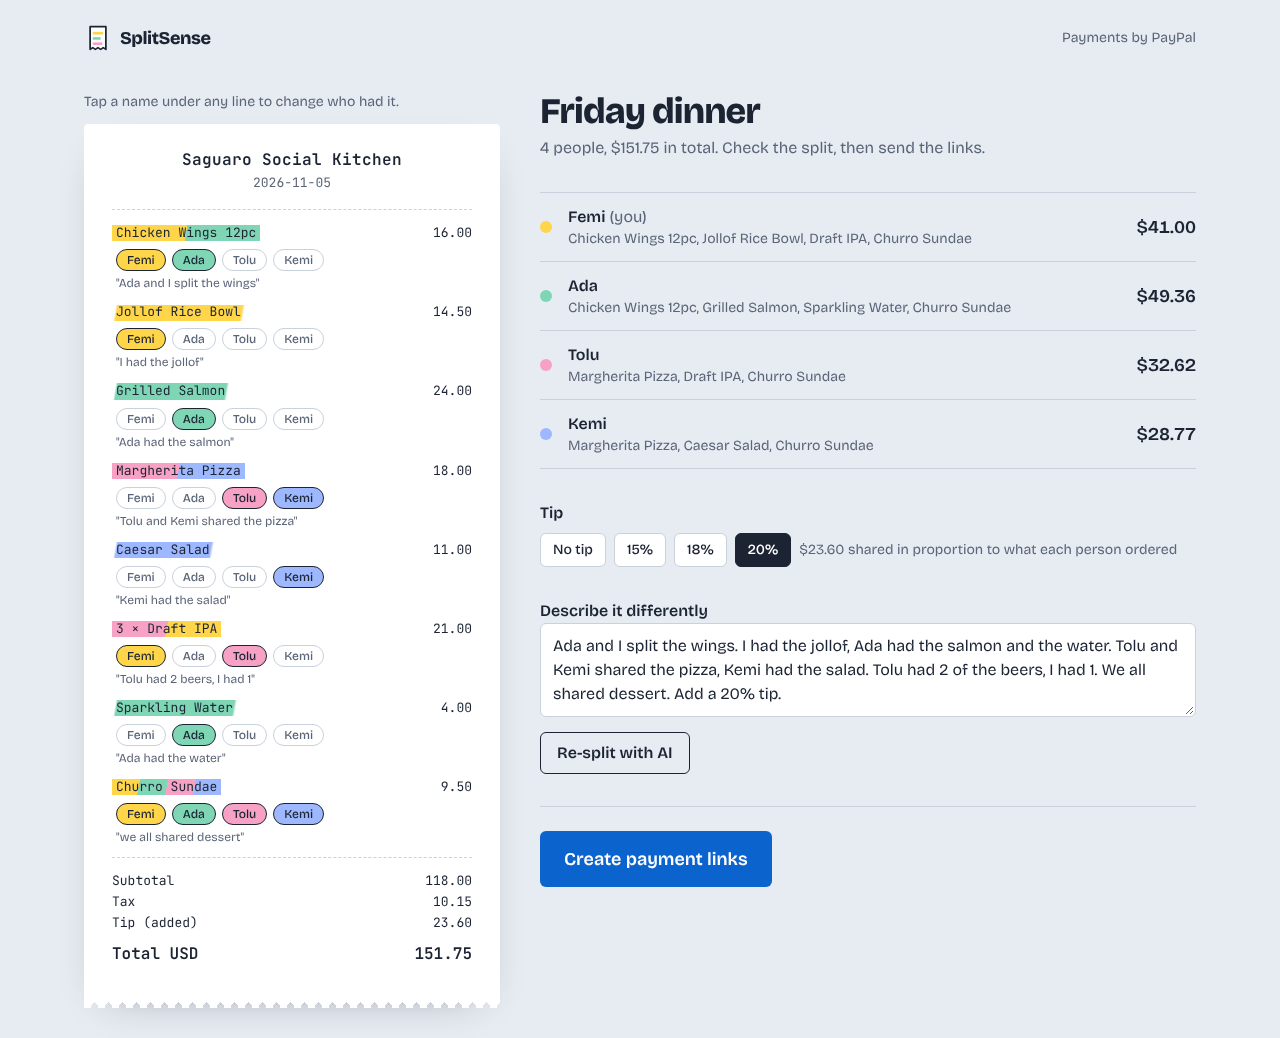
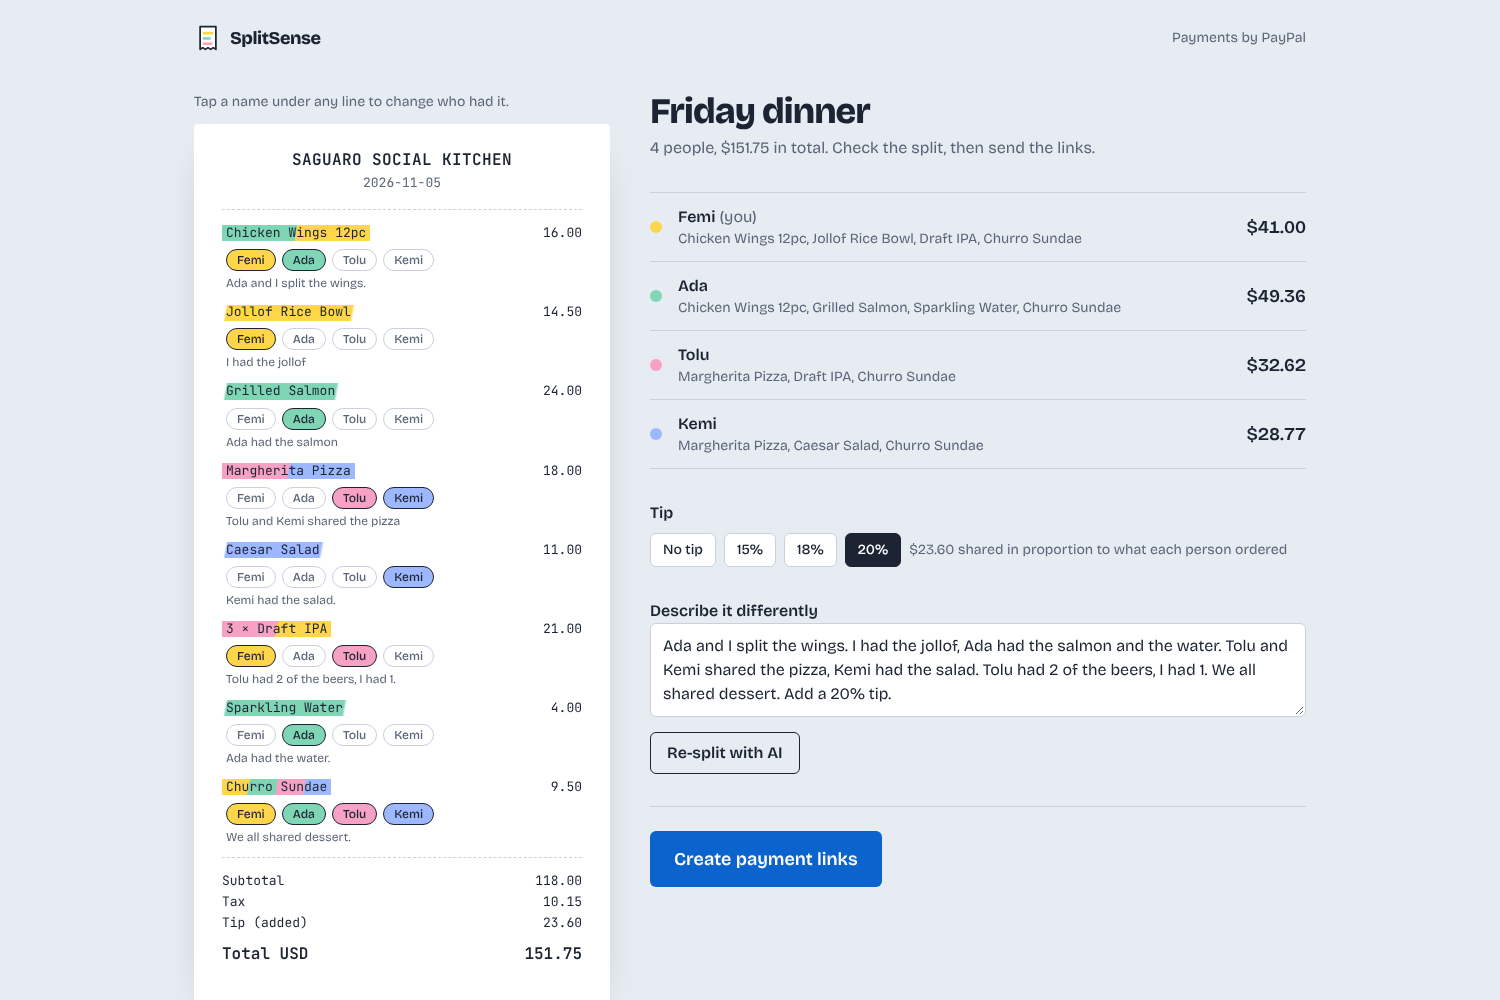
docs: live screenshots, how-it-works diagram, pay-the-host in script
Claude-Session: https://claude.ai/code/session_01NDEohR6chSKbh1whT66TAo

diff --git a/docs/SUBMISSION.md b/docs/SUBMISSION.md
@@ -14,7 +14,7 @@ Deadline: **Thu Nov 12, 2026, 12:00 PM PT** (1:00 PM in Phoenix). Judging weight
 |---|---|---|
 | **0:00–0:08** | Close-up of a long restaurant receipt, then a group chat full of "what do I owe you?" | "You covered dinner for four. Now comes the worst part of the night." |
 | **0:08–0:30** | Quick cuts: calculator app, someone squinting at the tax line, a wrong Venmo amount. Text overlay: *Splitting evenly is unfair. Splitting by item is a chore.* | "Splitting evenly isn't fair. Splitting by item means reading every line, dividing shared plates, working out tax and tip in proportion, then chasing four people for four different amounts. Most of us just round down and lose money. SplitSense fixes that with Google Gemini and PayPal." |
-| **0:30–0:45** | SplitSense home. Click **Try the sample receipt**. Show names: Femi, Ada, Tolu, Kemi. Show the sentence. | "I add the receipt, list who was there, and describe it the way I'd text it: Ada and I split the wings, Tolu had two of the three beers, we all shared dessert, add 20% tip." |
+| **0:30–0:45** | SplitSense home. Click **Try the sample receipt**. Type your PayPal email in **Your PayPal email**. Show names: Femi, Ada, Tolu, Kemi. Show the sentence. | "I add my PayPal email so my friends pay me directly, add the receipt, list who was there, and describe it the way I'd text it: Ada and I split the wings, Tolu had two of the three beers, we all shared dessert, add 20% tip." |
 | **0:45–1:00** | Click **Split the bill**. The four-step progress panel ticks: Read the receipt → Check the math → Match items to people → Work out exact shares. | "Gemini reads the receipt and then checks its own arithmetic. If the items don't add up to the subtotal, it gets told exactly what's wrong and reads the receipt again. Then a second agent turns my sentence into item assignments." |
 | **1:00–1:15** | Review screen. The highlighter marks sweep across the receipt in each friend's color. Hover the multi-color dessert line. | "Every line is highlighted in the color of whoever had it. Shared plates show every color. And these totals come from code, not the model, so they add up to the cent." |
 | **1:15–1:22** | Tap a chip to move the salad from Kemi to Ada. Totals change. Click **18%** tip. | "If anything's off, one tap fixes it." |
@@ -22,7 +22,7 @@ Deadline: **Thu Nov 12, 2026, 12:00 PM PT** (1:00 PM in Phoenix). Judging weight
 | **1:30–1:45** | Phone: Ada's page. "Your share is $49.36", her lines only, tax and tip shares. Tap the **PayPal** button. Log into the sandbox. The review page shows the item breakdown. **Pay**. | "Ada sees just her items. The PayPal checkout shows the same breakdown, chicken wings half share, her share of tip, so there's nothing to argue about. She pays with PayPal, though Venmo, Pay Later or card would work too." |
 | **1:45–2:00** | Split screen: the phone shows "You're square with Femi." The desktop dashboard row flashes green, the bar jumps to $49.36, and the badge goes **Paid**, then **Paid, confirmed by PayPal**. | "On my side it updates instantly. First 'Paid' when the capture succeeds, then 'Confirmed by PayPal' when PayPal's signed webhook arrives." |
 | **2:00–2:30** | Architecture diagram from `docs/ARCHITECTURE.md`, animated left to right. Then a code close-up: the validation-error feedback sent back to Gemini, then `PayPal-Request-Id: capture-{orderId}`, then `verify-webhook-signature`. | "Under the hood: Gemini vision with forced function calls and JSON schemas, wrapped in a validate, feedback, retry loop. The AI decides who had what. Deterministic largest-remainder math decides how much. PayPal Orders v2 carries a full item breakdown. Captures are idempotent with request IDs. Webhooks are signature-verified, deduplicated and checked against the expected amount. And if a friend closes the tab after approving, the approved-order webhook captures on the server. Forty-two automated tests cover it." |
-| **2:30–2:50** | Dashboard fills to 100%: "Everyone's paid you back." Roadmap overlay: group tabs, PayPal Payouts to pay friends back, recurring roommate bills, merchant QR at the table. | "Every shared meal, trip and grocery run creates this debt, and PayPal is already in every friend's pocket. Next comes running tabs across trips, settling with PayPal Payouts, and restaurants printing a SplitSense QR on the receipt so the table settles before they stand up." |
+| **2:30–2:50** | Quick cut: the host's sandbox PayPal Activity showing +$49.36 arriving. Then the dashboard fills to 100%: "Everyone's paid you back." Roadmap overlay: group tabs, PayPal Payouts to pay friends back, recurring roommate bills, merchant QR at the table. | "And the money lands straight in my PayPal, no middleman. Every shared meal, trip and grocery run creates this debt, and PayPal is already in every friend's pocket. Next comes running tabs across trips, settling with PayPal Payouts, and restaurants printing a SplitSense QR on the receipt so the table settles before they stand up." |
 | **2:50–3:00** | Logo, repo URL, live demo URL. | "SplitSense. Split the bill, not the friendship." |
 
 **Shot tips.** Zoom the browser to 125% so the receipt text reads on mobile viewers. Record the AI steps live. If latency runs long, trim the middle but keep one real tick of each step. Never fake the payment: judges score "shows the project working end to end".
@@ -43,7 +43,7 @@ SplitSense turns one receipt photo and one sentence into exact, itemized PayPal 
 - **Frontend:** React 19, Vite, TypeScript and Tailwind CSS 4. `@paypal/react-paypal-js` renders the Smart Payment Buttons. Progress streams in as NDJSON, and Server-Sent Events drive the live dashboard.
 - **Backend:** Node.js 22, Express 5 and TypeScript, with zod validation on every input, environment variable and AI output. Node's built-in SQLite (`node:sqlite`) keeps setup at zero, with nothing to compile.
 - **AI:** Google Gemini (`gemini-3.5-flash`) through the official `@google/genai` SDK, with Anthropic Claude supported as a drop-in alternative (`AI_PROVIDER`). Two forced function calls (`record_receipt` and `assign_items`) with JSON schemas, wrapped in a custom validate → feedback → retry loop. Validation failures go back to the model as function-response errors, so it corrects itself. Receipts can be images or PDFs.
-- **PayPal:** OAuth 2.0 client credentials with cached, early-refreshing, single-flight tokens. Orders v2 create (with `items[]`, `amount.breakdown`, `custom_id` and `experience_context`) and capture. `PayPal-Request-Id` makes requests idempotent. `verify-webhook-signature` checks events, and handlers cover `PAYMENT.CAPTURE.*` and `CHECKOUT.ORDER.APPROVED`. Everything runs in the PayPal Sandbox.
+- **PayPal:** Orders v2 `payee` sends each friend's payment straight to the host's PayPal account when they add their email. OAuth 2.0 client credentials with cached, early-refreshing, single-flight tokens. Orders v2 create (with `items[]`, `amount.breakdown`, `custom_id` and `experience_context`) and capture. `PayPal-Request-Id` makes requests idempotent. `verify-webhook-signature` checks events, and handlers cover `PAYMENT.CAPTURE.*` and `CHECKOUT.ORDER.APPROVED`. Everything runs in the PayPal Sandbox.
 - **Hosting and quality:** Deployed on Render from a Blueprint. 42 Vitest and Supertest tests run fully offline using scripted AI clients (Gemini and Claude) and a PayPal fake.
 
 ### Challenges we ran into

diff --git a/README.md b/README.md
@@ -10,9 +10,11 @@ Built for the **PayPal AI Hackathon 2026** with PayPal Orders v2, PayPal webhook
 
 ![Review screen: the receipt highlighted in each friend's colour](docs/screenshots/review.png)
 
-| Live dashboard | Friend's payment page (mobile) |
+| Live dashboard | Friend's payment page |
 |---|---|
-| ![Dashboard updating live](docs/screenshots/dashboard-live.png) | ![Pay page with PayPal buttons](docs/screenshots/pay-mobile.png) |
+| ![Dashboard updating live](docs/screenshots/dashboard-live.png) | ![Pay page with PayPal buttons](docs/screenshots/pay.png) |
+
+![How SplitSense works](docs/screenshots/how-it-works.png)
 
 ---
 
